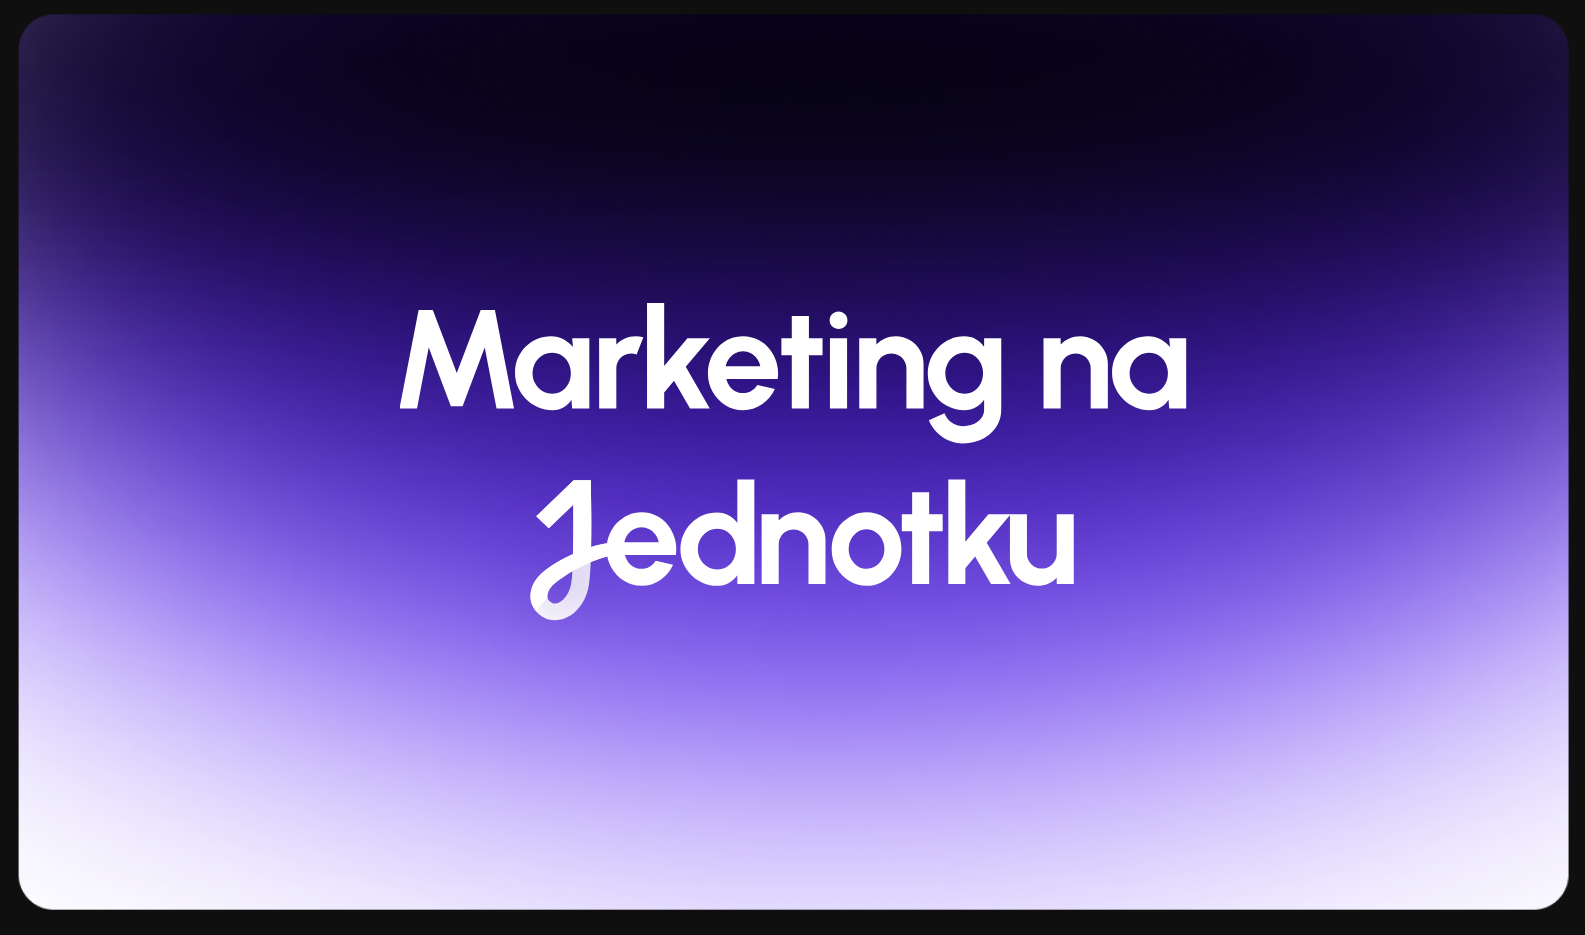
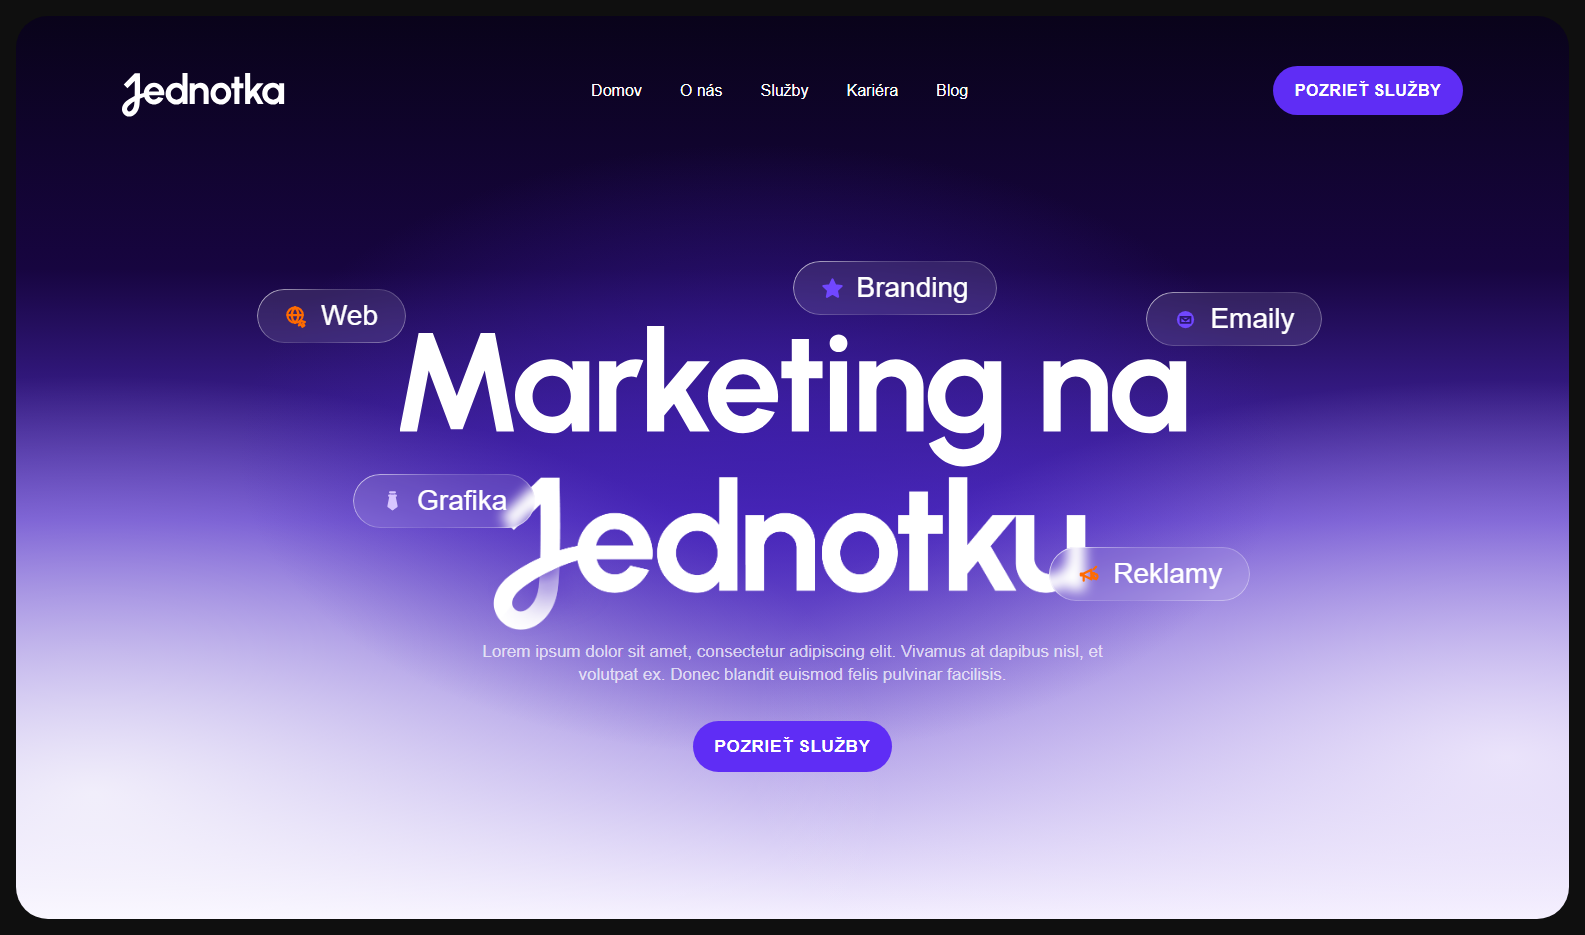
Build out hero section with header, nav, and service badges

diff --git a/index.html b/index.html
@@ -5,24 +5,120 @@
     <meta name="viewport" content="width=device-width, initial-scale=1.0" />
     <title>Jednotka - Marketing na Jednotku</title>
 
+    <link rel="stylesheet" href="css/variables.css" />
+    <link rel="stylesheet" href="css/main.css" />
     <link rel="stylesheet" href="css/pages/home.css" />
   </head>
   <body>
     <main class="hero">
-      <img class="gradient" src="gradient.png" alt="" />
+      <div class="hero-frame">
+        <header class="site-header" aria-label="Hlavná navigácia">
+          <a class="site-header-logo" href="/" aria-label="Jednotka">
+            <img src="assets/logo/Jednotka.svg" alt="" />
+          </a>
 
-      <h1 class="hero-title" aria-label="Marketing na Jednotku">
-        <img
-          class="hero-title-line hero-title-line--top"
-          src="assets/logo/Marketing na.svg"
-          alt=""
-        />
-        <img
-          class="hero-title-line hero-title-line--bottom"
-          src="assets/logo/Jednotku.png"
-          alt=""
-        />
-      </h1>
+          <nav class="site-nav" aria-label="Primárna navigácia">
+            <a href="/">Domov</a>
+            <a href="about.html">O nás</a>
+            <a href="#sluzby">Služby</a>
+            <a href="#kariera">Kariéra</a>
+            <a href="#blog">Blog</a>
+          </nav>
+
+          <a class="button button--primary site-header-button" href="#sluzby">Pozrieť služby</a>
+        </header>
+
+        <div class="hero-badge hero-badge--web">
+          <svg
+            class="hero-badge-icon"
+            viewBox="0 0 24 24"
+            aria-hidden="true"
+          >
+            <circle cx="10.5" cy="10.5" r="8" />
+            <path d="M2.5 10.5h16" />
+            <path d="M10.5 2.5c2.4 2.3 3.5 5 3.5 8s-1.1 5.7-3.5 8" />
+            <path d="M10.5 2.5c-2.4 2.3-3.5 5-3.5 8s1.1 5.7 3.5 8" />
+            <path d="M16.8 16.4l4 1.3-2.1 1.2 1.5 2.6-2.1 1.2-1.5-2.6-2.1 1.2z" />
+          </svg>
+          <span>Web</span>
+        </div>
+
+        <div class="hero-badge hero-badge--branding">
+          <svg
+            class="hero-badge-icon hero-badge-icon--purple"
+            viewBox="0 0 24 24"
+            aria-hidden="true"
+          >
+            <path d="m12 2.5 2.8 6.1 6.7.8-5 4.6 1.3 6.6-5.8-3.4-5.8 3.4 1.3-6.6-5-4.6 6.7-.8z" />
+          </svg>
+          <span>Branding</span>
+        </div>
+
+        <div class="hero-badge hero-badge--emaily">
+          <svg
+            class="hero-badge-icon hero-badge-icon--email"
+            viewBox="0 0 24 24"
+            aria-hidden="true"
+          >
+            <circle class="hero-badge-icon-fill" cx="12" cy="12" r="9" />
+            <path d="M6.8 9.2h10.4v6.3H6.8z" />
+            <path d="m6.8 9.2 5.2 3.9 5.2-3.9" />
+          </svg>
+          <span>Emaily</span>
+        </div>
+
+        <div class="hero-badge hero-badge--grafika">
+          <svg
+            class="hero-badge-icon hero-badge-icon--light"
+            viewBox="0 0 24 24"
+            aria-hidden="true"
+          >
+            <path d="M8.5 7h7" />
+            <path d="M10 7 7.8 18l4.2 3 4.2-3L14 7" />
+            <path d="M12 13v8" />
+            <path d="M9.5 3.5h5" />
+          </svg>
+          <span>Grafika</span>
+        </div>
+
+        <div class="hero-badge hero-badge--reklamy">
+          <svg
+            class="hero-badge-icon"
+            viewBox="0 0 24 24"
+            aria-hidden="true"
+          >
+            <path d="M4 13h3l8 4V7l-8 4H4z" />
+            <path d="M7 13v5.5" />
+            <path d="M15 10.5h3" />
+            <path d="M17.5 6.5 20 4" />
+            <path d="M17.5 14.5 20 17" />
+            <circle cx="19" cy="14" r="2.4" />
+          </svg>
+          <span>Reklamy</span>
+        </div>
+
+        <h1 class="hero-title" aria-label="Marketing na Jednotku">
+          <img
+            class="hero-title-line hero-title-line--top"
+            src="assets/logo/Marketing na.svg"
+            alt=""
+          />
+          <img
+            class="hero-title-line hero-title-line--bottom"
+            src="assets/logo/Jednotku.png"
+            alt=""
+          />
+        </h1>
+
+        <div class="hero-copy">
+          <p>
+            Lorem ipsum dolor sit amet, consectetur adipiscing elit. Vivamus at dapibus nisl, et
+            volutpat ex. Donec blandit euismod felis pulvinar facilisis.
+          </p>
+
+          <a class="button button--primary" href="#sluzby">Pozrieť služby</a>
+        </div>
+      </div>
     </main>
   </body>
 </html>

diff --git a/css/pages/home.css b/css/pages/home.css
@@ -1,23 +1,24 @@
-html,
-body {
-  margin: 0;
-  min-height: 100%;
-  background: #0f0f0f;
-}
-
 .hero {
   position: relative;
-  min-height: 100vh;
+  display: grid;
+  place-items: center;
+  box-sizing: border-box;
+  height: 100vh;
   overflow: hidden;
+  padding: var(--page-frame-margin);
 }
 
-.gradient {
-  position: absolute;
-  inset: 0;
-  display: block;
-  width: 100vw;
-  height: 100vh;
-  object-fit: contain;
+.hero-frame {
+  position: relative;
+  width: 100%;
+  height: 100%;
+  overflow: hidden;
+  border-radius: var(--hero-frame-radius);
+  background:
+    radial-gradient(ellipse at 48% 48%, rgb(62 30 174 / 74%) 0%, transparent 46%),
+    radial-gradient(ellipse at 5% 86%, rgb(255 255 255 / 78%) 0%, transparent 38%),
+    radial-gradient(ellipse at 96% 82%, rgb(247 242 255 / 82%) 0%, transparent 36%),
+    linear-gradient(180deg, #09031a 0%, #170540 28%, #522fc7 56%, #f4efff 100%);
 }
 
 .hero-title {
@@ -44,4 +45,129 @@ body {
   width: min(43vw, 623px);
   margin-top: -20px;
   transform: translateX(-2%);
+}
+
+.hero-copy {
+  position: absolute;
+  top: 69.2%;
+  left: 50%;
+  z-index: 1;
+  display: grid;
+  justify-items: center;
+  width: min(44%, 640px);
+  transform: translateX(-50%);
+}
+
+.hero-copy p {
+  margin: 0;
+  color: rgb(255 255 255 / 72%);
+  font-family: Arial, sans-serif;
+  font-size: 17px;
+  font-weight: 400;
+  line-height: 1.35;
+  text-align: center;
+}
+
+.hero-copy .button {
+  margin-top: 34px;
+}
+
+.hero-badge {
+  position: absolute;
+  z-index: 2;
+  display: inline-flex;
+  align-items: center;
+  gap: 13px;
+  height: 54px;
+  padding: 0 28px;
+  border-radius: 999px;
+  color: #ffffff;
+  font-family: Arial, sans-serif;
+  font-size: 28px;
+  font-weight: 400;
+  line-height: 1;
+  background: rgb(255 255 255 / 10%);
+  backdrop-filter: blur(6px);
+}
+
+.hero-badge::before {
+  position: absolute;
+  inset: 0;
+  padding: 0.7px;
+  border-radius: inherit;
+  background: linear-gradient(
+    135deg,
+    rgb(255 255 255 / 72%) 0%,
+    rgb(255 255 255 / 18%) 34%,
+    rgb(255 255 255 / 8%) 54%,
+    rgb(255 255 255 / 42%) 100%
+  );
+  content: "";
+  pointer-events: none;
+  -webkit-mask:
+    linear-gradient(#000 0 0) content-box,
+    linear-gradient(#000 0 0);
+  -webkit-mask-composite: xor;
+  mask-composite: exclude;
+}
+
+.hero-badge--web {
+  top: 30.24%;
+  left: 15.49%;
+}
+
+.hero-badge--branding {
+  top: 27.18%;
+  left: 50%;
+}
+
+.hero-badge--emaily {
+  top: 30.59%;
+  left: 72.78%;
+}
+
+.hero-badge--grafika {
+  top: 50.71%;
+  left: 21.67%;
+}
+
+.hero-badge--reklamy {
+  top: 58.82%;
+  left: 66.53%;
+}
+
+.hero-badge-icon {
+  width: 23px;
+  height: 23px;
+  overflow: visible;
+  fill: none;
+  stroke: #ff6b00;
+  stroke-linecap: round;
+  stroke-linejoin: round;
+  stroke-width: 2.3;
+}
+
+.hero-badge-icon--purple {
+  fill: #7147ff;
+  stroke: #7147ff;
+}
+
+.hero-badge-icon--email {
+  stroke: #7147ff;
+  stroke-width: 1.8;
+}
+
+.hero-badge-icon--email .hero-badge-icon-fill {
+  fill: #7147ff;
+  stroke: none;
+}
+
+.hero-badge-icon--email path {
+  fill: none;
+  stroke: #2b176d;
+}
+
+.hero-badge-icon--light {
+  fill: #d8c6ff;
+  stroke: #d8c6ff;
 }

diff --git a/css/main.css b/css/main.css
@@ -1,0 +1,71 @@
+html,
+body {
+  margin: 0;
+  min-height: 100%;
+  background: var(--color-page-bg);
+}
+
+.button {
+  display: inline-flex;
+  align-items: center;
+  justify-content: center;
+  min-height: var(--button-height);
+  padding: 0 var(--button-padding-x);
+  border-radius: var(--button-radius);
+  color: var(--button-color);
+  font-family: var(--font-primary);
+  font-size: var(--button-font-size);
+  font-weight: var(--button-font-weight);
+  letter-spacing: var(--button-letter-spacing);
+  line-height: 1;
+  text-decoration: none;
+  text-transform: uppercase;
+}
+
+.button--primary {
+  background: var(--button-bg);
+}
+
+.site-header {
+  position: absolute;
+  top: 5.4%;
+  right: 6.8%;
+  left: 6.8%;
+  z-index: 3;
+  display: grid;
+  grid-template-columns: 165px 1fr auto;
+  align-items: center;
+}
+
+.site-header-logo {
+  display: block;
+  width: 165px;
+  height: 52px;
+}
+
+.site-header-logo img {
+  display: block;
+  width: 100%;
+  height: 100%;
+}
+
+.site-nav {
+  display: flex;
+  justify-content: center;
+  gap: 38px;
+}
+
+.site-nav a {
+  color: var(--color-white);
+  font-family: var(--font-primary);
+  font-size: 16px;
+  font-weight: 400;
+  line-height: 1;
+  text-decoration: none;
+}
+
+.site-header-button {
+  --button-height: 49px;
+  --button-padding-x: 22px;
+  --button-font-size: 16px;
+}

diff --git a/css/variables.css b/css/variables.css
@@ -1,0 +1,19 @@
+:root {
+  --color-page-bg: #0f0f0f;
+  --color-white: #ffffff;
+  --color-primary: #5f2df5;
+
+  --font-primary: Arial, sans-serif;
+
+  --page-frame-margin: 16px;
+  --hero-frame-radius: 32px;
+
+  --button-height: 51px;
+  --button-padding-x: 22px;
+  --button-radius: 999px;
+  --button-bg: var(--color-primary);
+  --button-color: var(--color-white);
+  --button-font-size: 17px;
+  --button-font-weight: 700;
+  --button-letter-spacing: 0.04em;
+}
